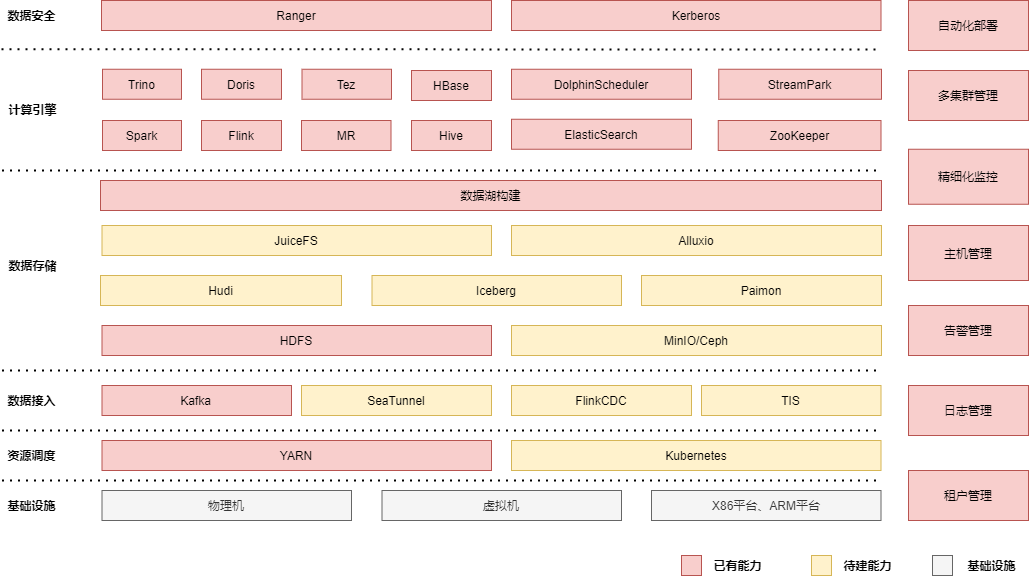
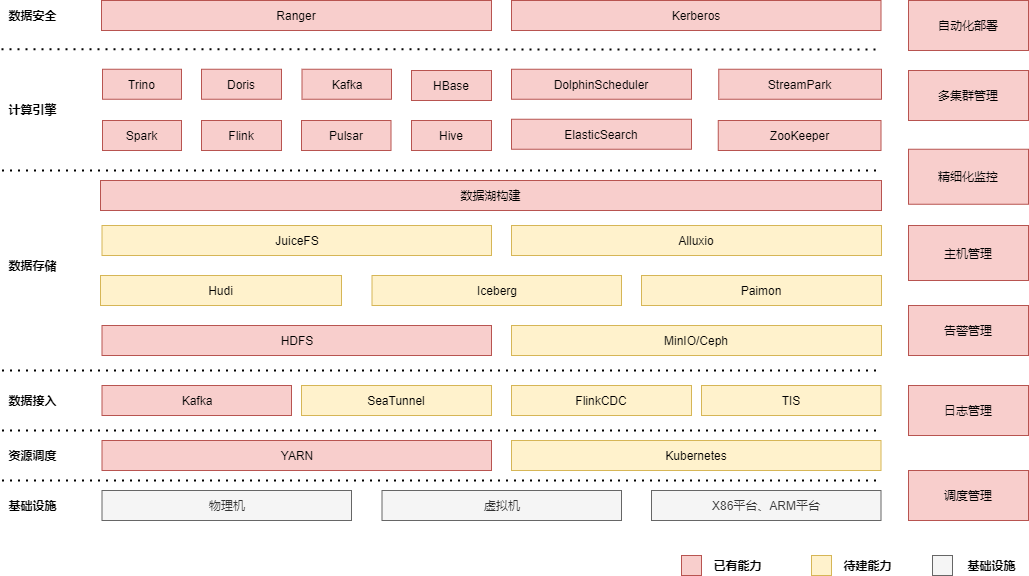
[improvement] update archive.png

diff --git a/README.md b/README.md
@@ -38,8 +38,11 @@ DataSophon is a similar management platform. Unlike the Sophon, which aims to li
 * Flexible and convenient alarm service, which can realize user-defined alarm groups and alarm indicators
 * Strong scalability, users can integrate or upgrade any components through configuration.
 
-
 ![img](website/static/img/dashboard.png)
+
+# Product Architecture
+
+![product-en](./website/static/img/product-en.png)
 
 # Architecture
 
